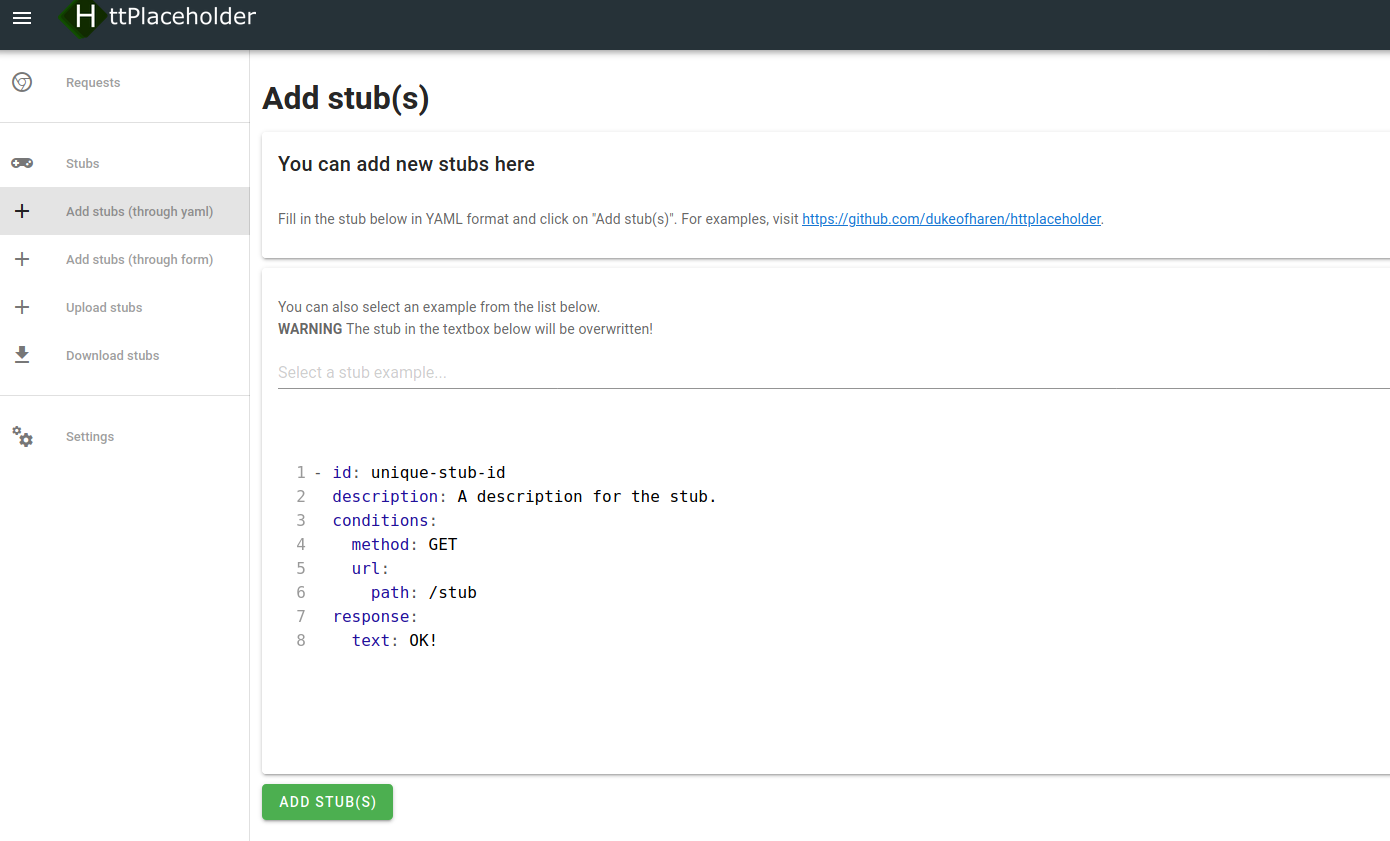
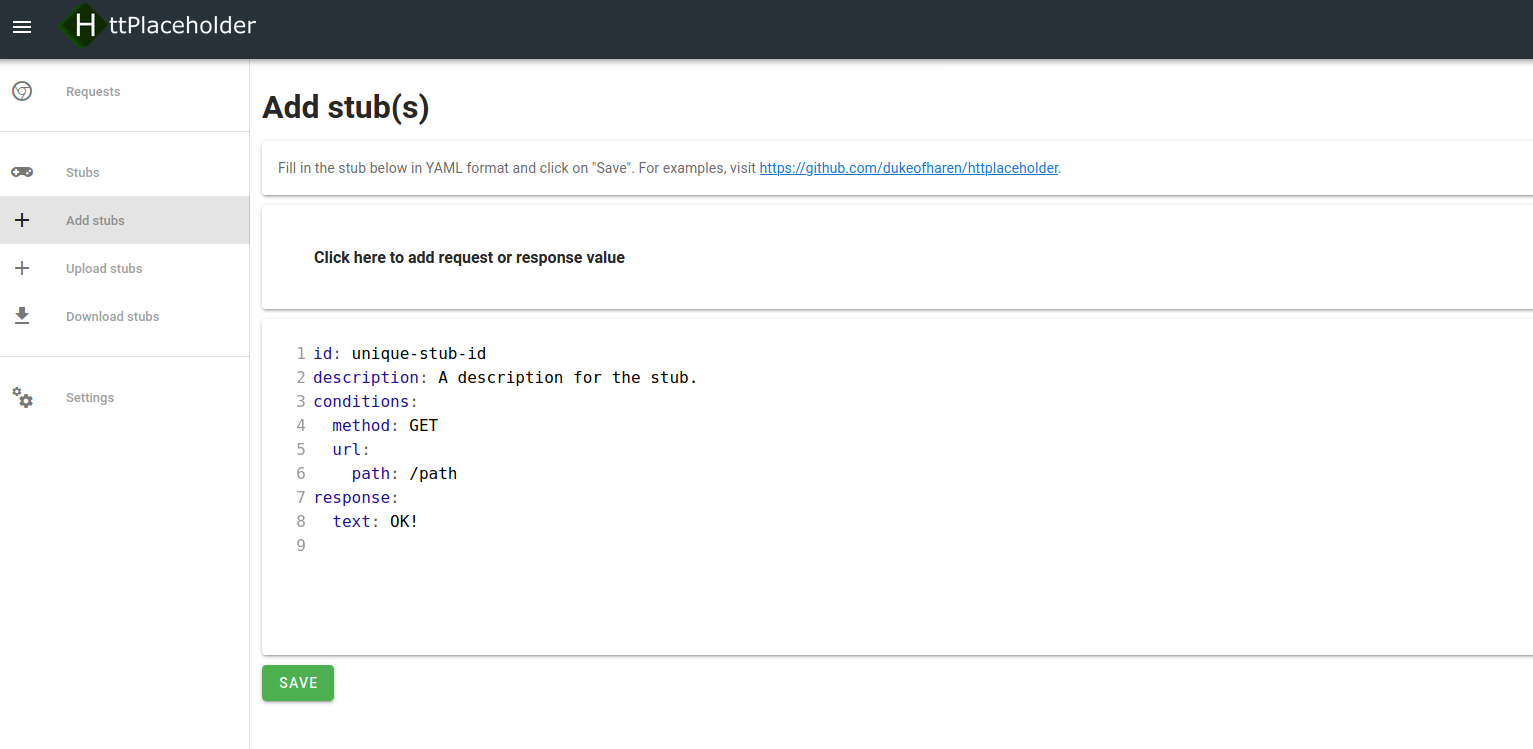
Updated UI.md

diff --git a/docs/UI.md b/docs/UI.md
@@ -30,15 +30,11 @@ Click on the "Add stubs (through yaml)" button in the sidebar.
 
 ![](img/stub_add_yaml.png)
 
-You can add a single stub here or you can provide multiple stubs in YAML format. You can also pick an example so you can work from that.
+You can add a single stub here or you can provide multiple stubs in YAML format.
 
-### Adding stub through form
+![](img/stub_add_yaml_helpers.png)
 
-Click on the "Add stubs (through form)" button in the sidebar.
-
-![](img/stub_add_form.png)
-
-You can fill in nearly all request conditions and response writers available in YAML on this form.
+You can also click on "Click here to add request or response value" so you can see what kind of values you can use in your request conditions and response definitions and insert them.
 
 ### Uploading stubs
 
